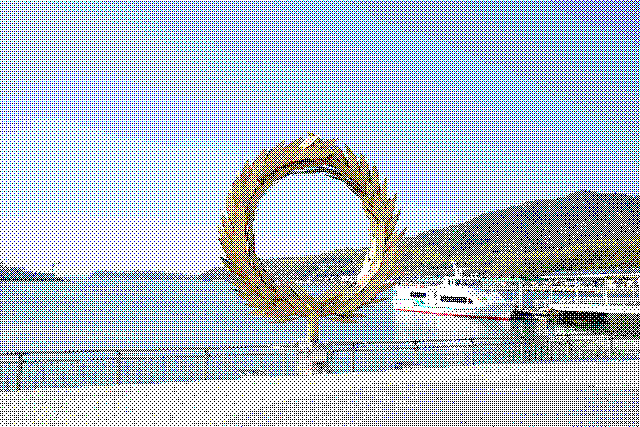
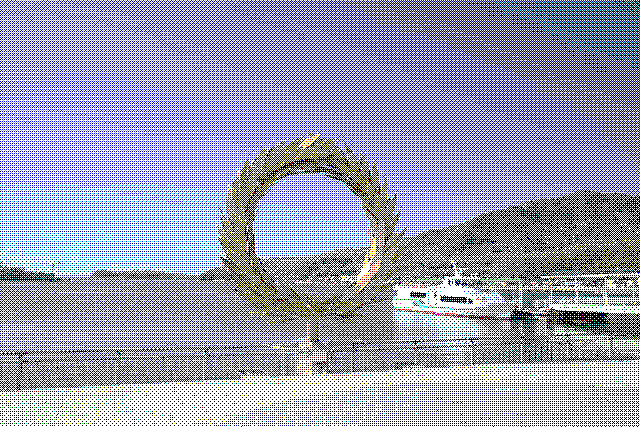
Update: 一部修正

diff --git a/src/generator.py b/src/generator.py
@@ -99,13 +99,11 @@ def gamma_correction(img, gamma=2.2):
     return (gammaed_img * 255).astype(np.uint8)
 
 
-def saturation_up(img, ratio=1):
+def saturation_up(img, ratio=2.5):
     """彩度あげる
     """
     img_hsv = cv2.cvtColor(img, cv2.COLOR_BGR2HSV)
     img_hsv[:, :, 1] = img_hsv[:, :, 1] * ratio
-
-    print(img_hsv.max())
     return cv2.cvtColor(img_hsv,cv2.COLOR_HSV2BGR)
 
 
